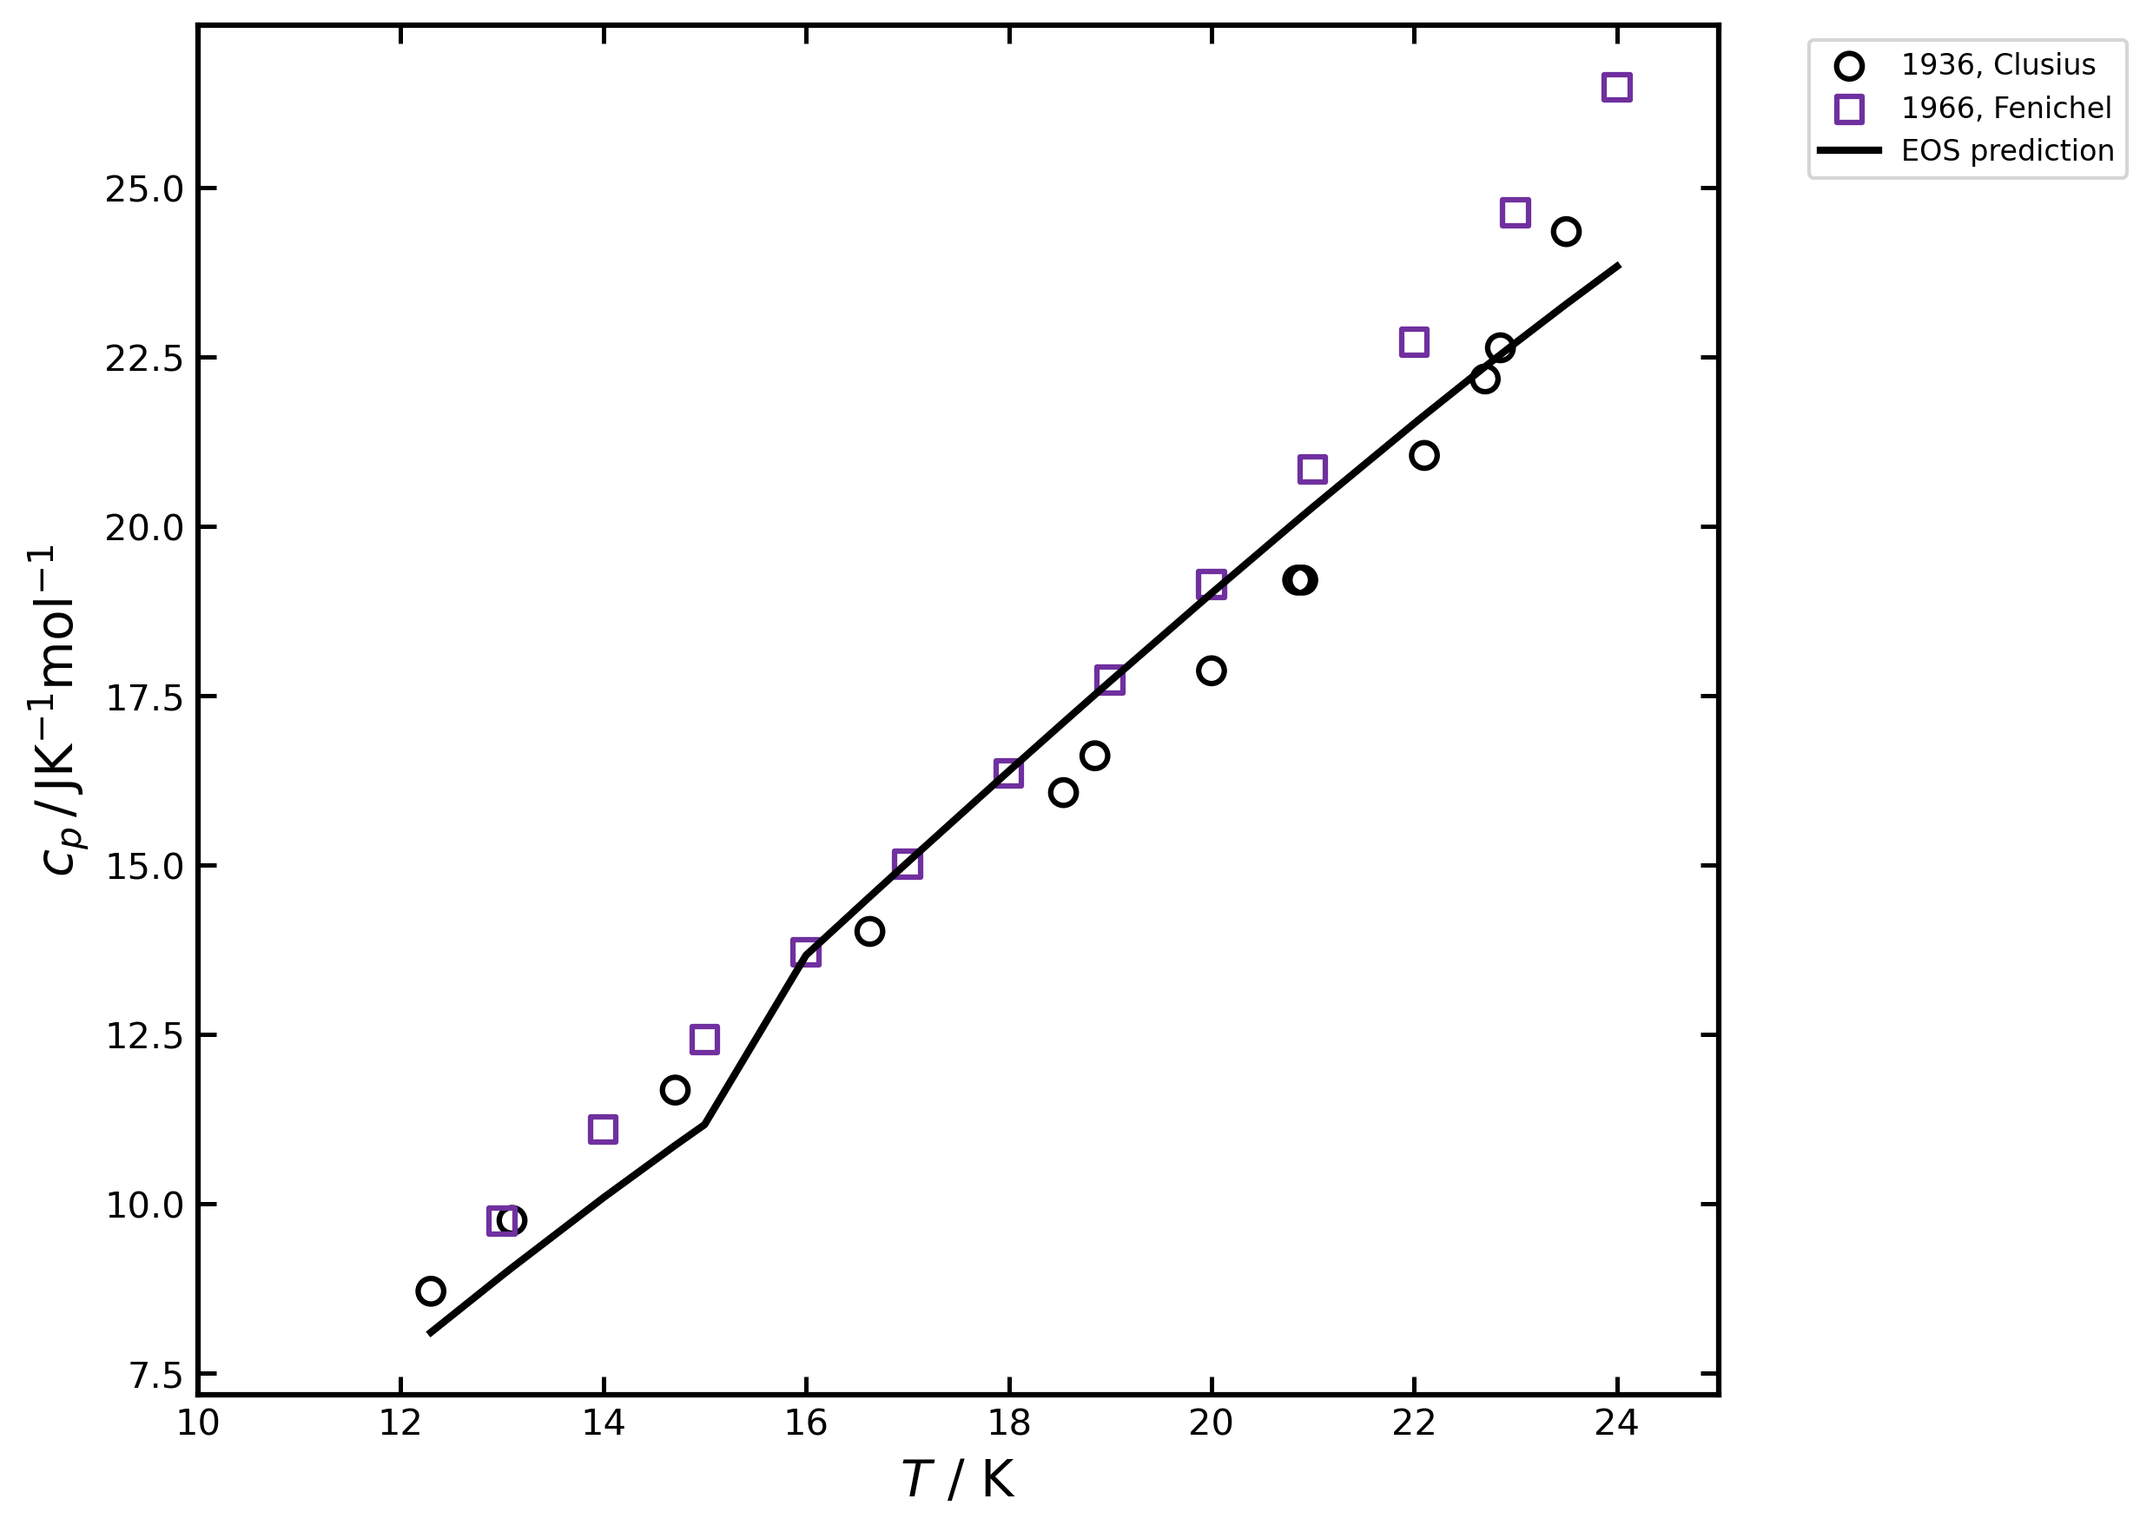
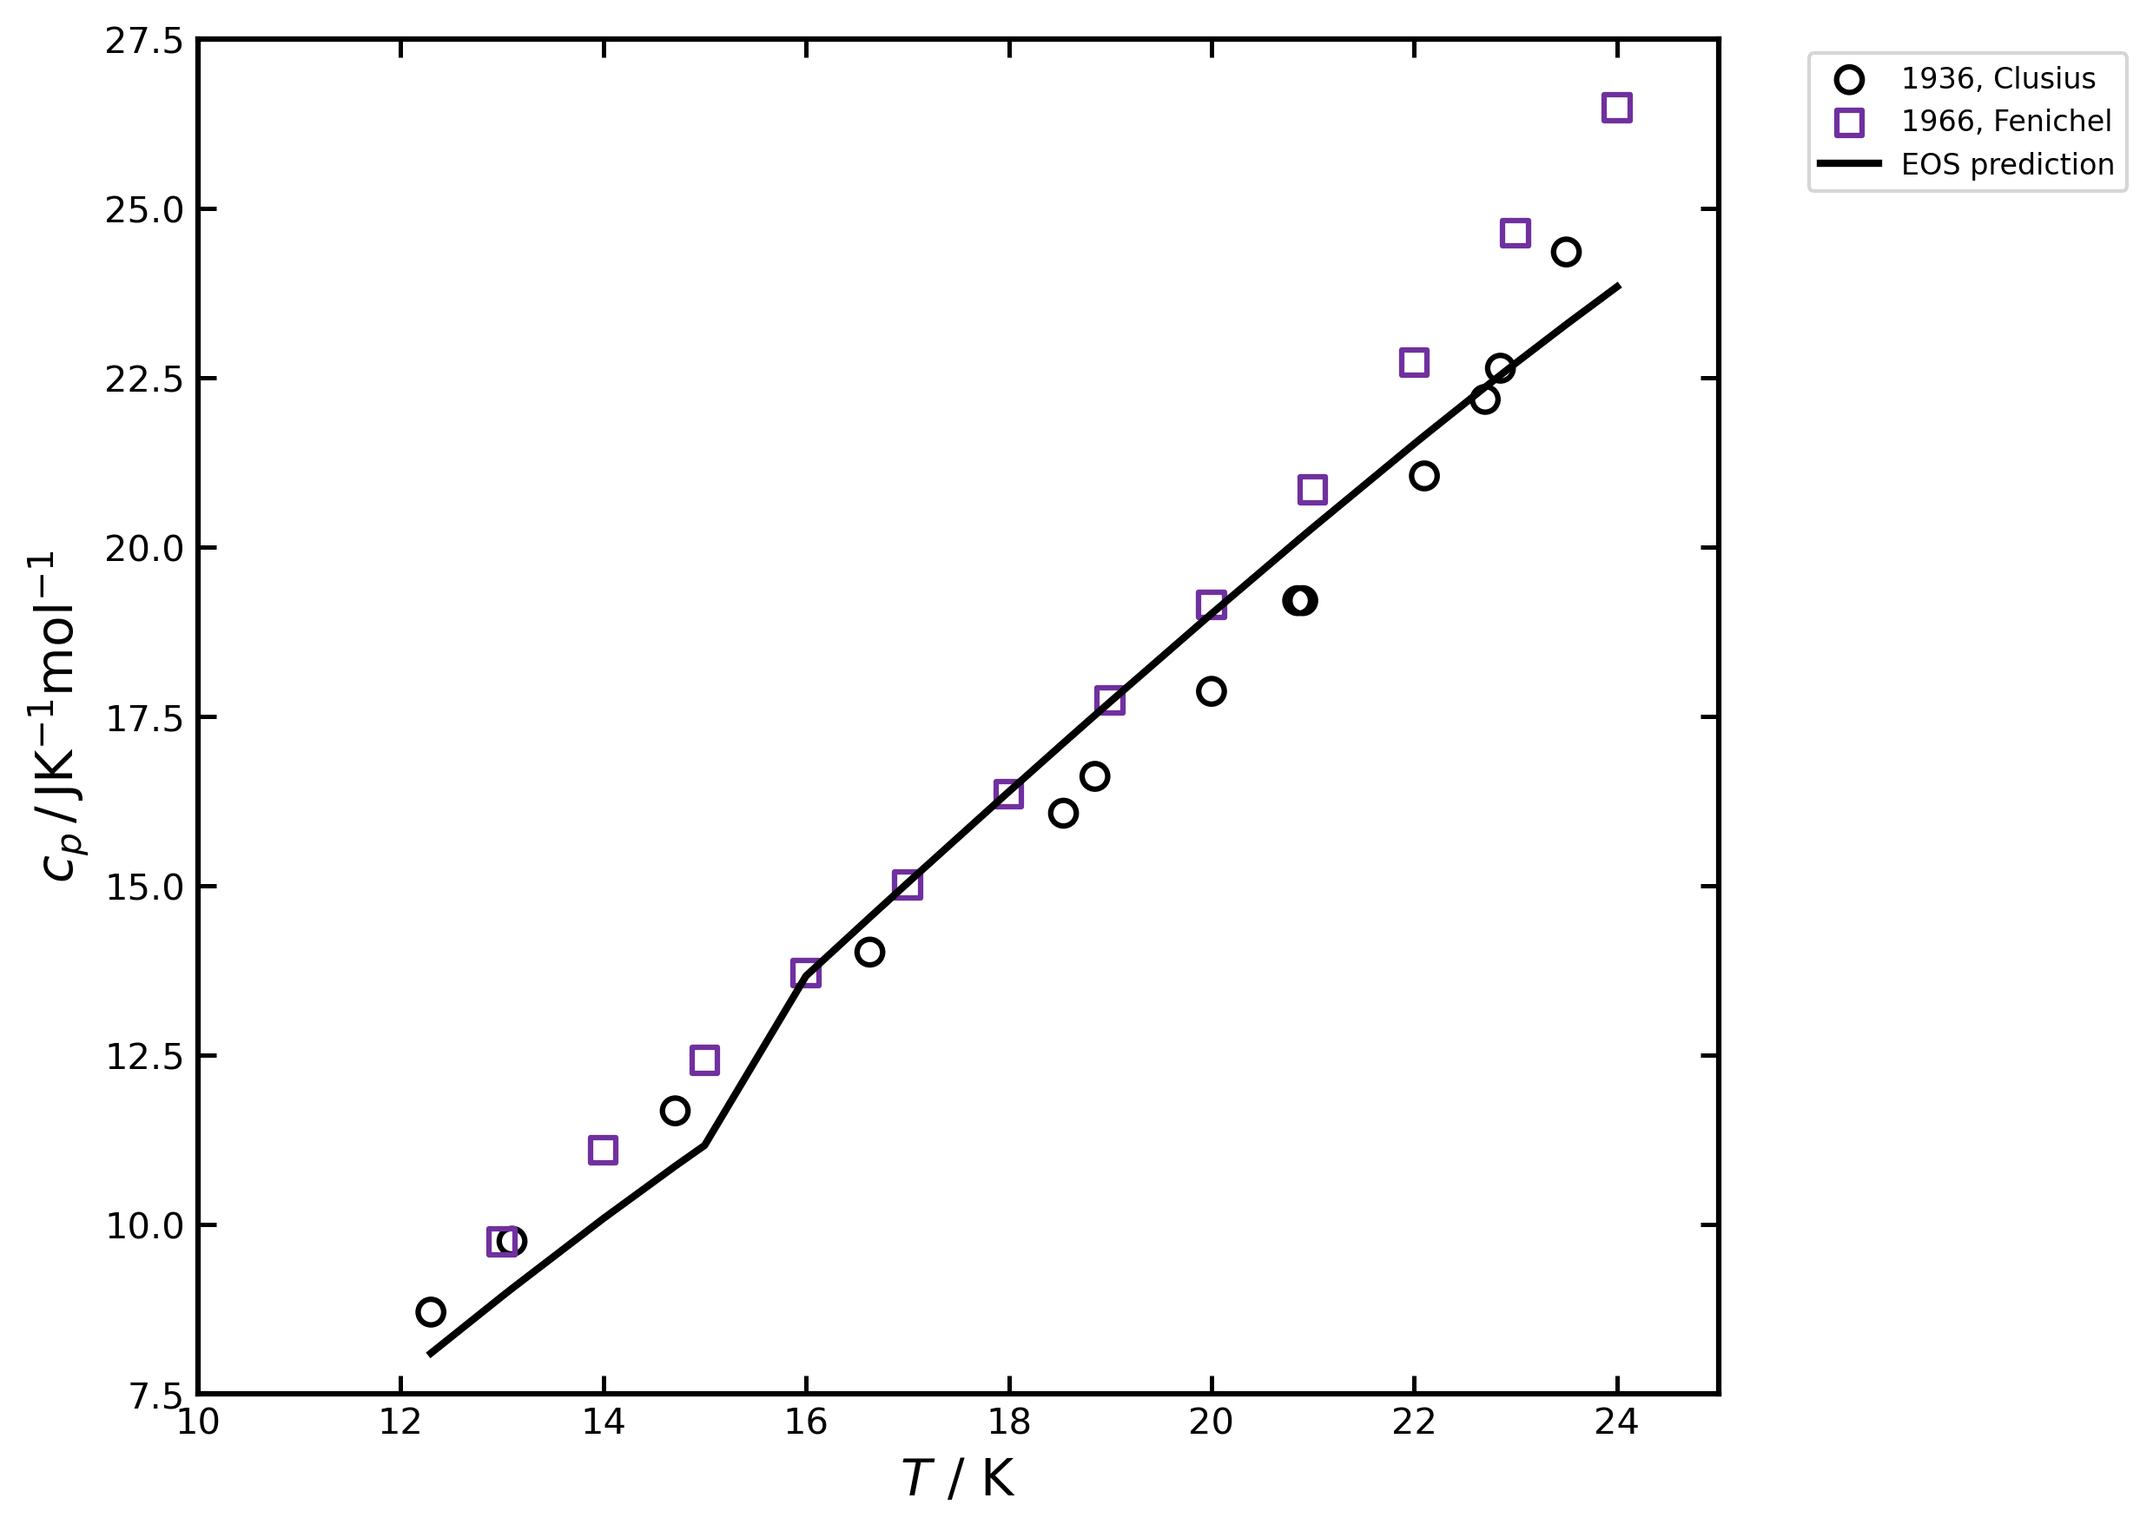
working on krypton high pressure

diff --git a/src/fitting_helper.py b/src/fitting_helper.py
@@ -418,11 +418,9 @@ def extract_datasets(data):
     # High Pressure Cell Volume (safe defaults if missing)
     if 'cell_volume_highp' in data:
         T_Vm_highp = data['cell_volume_highp']['Temperature']
-        p_Vm_highp = data['cell_volume_highp']['Pressure']
         Vm_highp = data['cell_volume_highp']['Cell Volume']
     else:
         T_Vm_highp = np.array([])
-        p_Vm_highp = np.array([])
         Vm_highp = np.array([])
 
     # Heat Capacity Sublimation
@@ -1322,3 +1320,191 @@ def _triple_offsets_plot(params, Tt=Tt, pt=pt, St_REFPROP=St_REFPROP, Ht_REFPROP
         dH = Ht_fitted - float(Ht_REFPROP)  # J/mol
     return dH/1000.0, dS  # kJ/mol, dimensionless
 #
+
+
+def plot_tv_property_panels(
+    params,
+    V_vals,
+    T_list=(0.0001, 50.0, 83.806, 150.0, 300.0),
+    Tt=None,
+    psub_curve=None,   # function T -> MPa
+    pmelt_curve=None,  # function T -> MPa
+    figsize=(10, 8),
+    save_path=None
+):
+    """
+    Plot 4 panels vs Vm using the TV EOS:
+      a) p (MPa)
+      b) K_S (MPa)  [isentropic bulk modulus = 1/KappaS]
+      c) alpha * 1e4 (1/K)
+      d) beta = alpha / KappaT (MPa^-1)
+
+    Overlays:
+      - Isotherms at T in T_list with styles:
+          0 K: black solid
+         50 K: purple dashed
+      83.806 K: dark red dash-dot
+        150 K: green dotted
+        300 K: bold orange solid
+      - Phase curves:
+        Sublimation: bold blue dashed
+        Melting:     bold grey dash-dot
+
+    Notes
+    - V_vals is a 1D array of molar volumes (cm^3/mol) to sweep, e.g., np.arange(18, 25.01, 0.01).
+    - psub_curve and pmelt_curve should return pressures in MPa.
+    """
+    V_vals = np.asarray(V_vals, float)
+
+    # Styling maps
+    styles = {
+        0.0001: dict(color='k',      ls='-',  lw=1.8, label='0 K'),
+        # purple
+        50.0:   dict(color='#8e44ad', ls='--', lw=1.8, label='50 K'),
+        # dark red
+        83.806: dict(color='#8B0000', ls='-.', lw=1.8, label='83.806 K'),
+        # teal/green
+        150.0:  dict(color='#16a085', ls=':',  lw=1.8, label='150 K'),
+        # orange, bold
+        300.0:  dict(color='#e67e22', ls='-',  lw=2.6, label='300 K'),
+    }
+    sub_style = dict(color='#1f77b4', ls='--', lw=2.6,
+                     label='sublimation')   # bold blue dashed
+    melt_style = dict(color='#7f7f7f', ls='-.', lw=2.6,
+                      label='melting')       # bold grey dash-dot
+
+    # Helpers to compute properties at fixed T across V_vals
+    def tv_props_along_V(T):
+        p_list, Ks_list, a_list, beta_list, V_list = [], [], [], [], []
+        for v in V_vals:
+            try:
+                props = compute_thermo_props_TV(float(T), float(v), params)
+                p = float(props[0])                    # MPa
+                kT = float(props[1])                    # MPa^-1
+                kS = float(props[2])                    # MPa^-1
+                alp = float(props[3])                    # 1/K
+                if np.isfinite(p) and np.isfinite(kT) and np.isfinite(kS) and np.isfinite(alp):
+                    V_list.append(v)
+                    p_list.append(p)
+                    # bulk moduli:
+                    Ks_list.append(1.0 / kS if kS !=
+                                   0 else np.nan)           # MPa
+                    beta_list.append(alp / kT if kT !=
+                                     0 else np.nan)         # MPa^-1
+                    # plot α·1e4
+                    a_list.append(alp * 1e4)
+            except Exception:
+                pass
+        return np.asarray(V_list), np.asarray(p_list), np.asarray(Ks_list), np.asarray(a_list), np.asarray(beta_list)
+
+    # Helpers to sample a phase curve parametrically by T, map to V, then compute properties at (T,V)
+    def sample_phase_curve(T_grid, p_of_T):
+        Vc, pc, KSc, ac, bc = [], [], [], [], []
+        for T in T_grid:
+            try:
+                p = float(p_of_T(T))  # MPa
+                # Get V from p-based API at (T,p)
+                props_p = compute_thermo_props(float(T), float(p), params)
+                V = float(props_p[0])  # Vm index=0
+                # Now compute properties from TV API at (T,V)
+                props_tv = compute_thermo_props_TV(float(T), float(V), params)
+                pMPa = float(props_tv[0])
+                kT = float(props_tv[1])
+                kS = float(props_tv[2])
+                alp = float(props_tv[3])
+                if np.all(np.isfinite([V, pMPa, kT, kS, alp])):
+                    Vc.append(V)
+                    pc.append(pMPa)
+                    KSc.append(1.0 / kS if kS != 0 else np.nan)
+                    ac.append(alp * 1e4)
+                    bc.append(alp / kT if kT != 0 else np.nan)
+            except Exception:
+                pass
+        return (np.asarray(Vc), np.asarray(pc), np.asarray(KSc),
+                np.asarray(ac), np.asarray(bc))
+
+    fig, axs = plt.subplots(2, 2, figsize=figsize)
+    ax_p, ax_Ks = axs[0]
+    ax_alpha, ax_beta = axs[1]
+
+    # Plot isotherms
+    for T in T_list:
+        Vc, pc, KSc, ac, bc = tv_props_along_V(T)
+        if Vc.size == 0:
+            continue
+        st = styles.get(round(T, 3), dict(
+            color='k', ls='-', lw=1.5, label=f'{T:g} K'))
+        # sort by V for clean lines
+        order = np.argsort(Vc)
+        Vc, pc, KSc, ac, bc = Vc[order], pc[order], KSc[order], ac[order], bc[order]
+        ax_p.plot(Vc, pc, **st)
+        ax_Ks.plot(Vc, KSc, **st)
+        ax_alpha.plot(Vc, ac, **st)
+        ax_beta.plot(Vc, bc, **st)
+
+    # Plot phase curves (if provided)
+    if (psub_curve is not None) and (Tt is not None):
+        # Sample safely below Tt
+        T_sub = np.linspace(max(1e-3, 0.1), float(Tt), 400)
+        Vc, pc, KSc, ac, bc = sample_phase_curve(T_sub, psub_curve)
+        if Vc.size:
+            o = np.argsort(Vc)
+            ax_p.plot(Vc[o], pc[o], **sub_style)
+            ax_Ks.plot(Vc[o], KSc[o], **sub_style)
+            ax_alpha.plot(Vc[o], ac[o], **sub_style)
+            ax_beta.plot(Vc[o], bc[o], **sub_style)
+
+    if pmelt_curve is not None and (Tt is not None):
+        # Sample above Tt (limit to a reasonable max T, e.g., last isotherm or 300 K)
+        Tmax = max([t for t in T_list if np.isfinite(t)]
+                   ) if T_list else (float(Tt) + 100.0)
+        Tmax = max(Tmax, float(Tt) + 1.0)
+        T_melt = np.linspace(float(Tt), float(Tmax), 400)
+        Vc, pc, KSc, ac, bc = sample_phase_curve(T_melt, pmelt_curve)
+        if Vc.size:
+            o = np.argsort(Vc)
+            ax_p.plot(Vc[o], pc[o], **melt_style)
+            ax_Ks.plot(Vc[o], KSc[o], **melt_style)
+            ax_alpha.plot(Vc[o], ac[o], **melt_style)
+            ax_beta.plot(Vc[o], bc[o], **melt_style)
+
+    # Labels, limits, legends
+    ax_p.set_xlabel(r"$V_m$ / (cm$^3$ mol$^{-1}$)")
+    ax_p.set_ylabel(r"$p$ / MPa")
+
+    ax_Ks.set_xlabel(r"$V_m$ / (cm$^3$ mol$^{-1}$)")
+    ax_Ks.set_ylabel(r"$K_S$ / MPa")
+
+    ax_alpha.set_xlabel(r"$V_m$ / (cm$^3$ mol$^{-1}$)")
+    ax_alpha.set_ylabel(r"$\alpha \cdot 10^{4}$ / K$^{-1}$")
+
+    ax_beta.set_xlabel(r"$V_m$ / (cm$^3$ mol$^{-1}$)")
+    ax_beta.set_ylabel(r"$\beta$ / MPa$^{-1}$")
+
+    # Aesthetic tweaks
+    for ax in (ax_p, ax_Ks, ax_alpha, ax_beta):
+        ax.tick_params(direction='in', top=True, right=True)
+        for spine in ax.spines.values():
+            spine.set_linewidth(1.2)
+            spine.set_color('black')
+
+    # One shared legend using handles from the first axis
+    # Collect unique labels in order
+    handles, labels = [], []
+    for ax in (ax_p,):
+        h, l = ax.get_legend_handles_labels()
+        for hi, li in zip(h, l):
+            if li not in labels:
+                handles.append(hi)
+                labels.append(li)
+    fig.legend(handles, labels, loc='upper center',
+               ncol=4, frameon=False, fontsize=9)
+
+    fig.tight_layout(rect=[0, 0, 1, 0.94])
+
+    if save_path:
+        os.makedirs(os.path.dirname(save_path), exist_ok=True)
+        fig.savefig(save_path, dpi=300, bbox_inches='tight')
+
+    plt.show()
+    return fig, axs

diff --git a/src/fitting_helper_neon.py b/src/fitting_helper_neon.py
@@ -942,7 +942,7 @@ def plot_deviation(variable='Vm_melt'):
             y_label=r'$c_p\,/\,\mathrm{JK^{-1}mol^{-1}}$',
             title=None,
             xlim=(10, 25),
-            # ylim=(0, 40),
+            ylim=(7.5, 27.5),
             model_x=df_cp_sub['T'],
             model_y=df_cp_sub['y_model'],
             logy=False,
@@ -961,7 +961,7 @@ def plot_deviation(variable='Vm_melt'):
             title=None,
             filename='neon_sub_heatcapacity_deviation',
             xlim=(10, 25),
-            # ylim=(-10, 20),
+            ylim=(-7.5, 12.5),
             output_folder=IMG_OUTPUT_FOLDER,
             custom_colors=CUSTOMCOLORS,
             custom_markers=CUSTOMMARKERS
@@ -995,7 +995,7 @@ def plot_deviation(variable='Vm_melt'):
             title=None,
             filename='neon_sub_thermal_expansion_deviation',
             xlim=(0, 25),
-            ylim=(-80, 10),
+            ylim=(-10, 10),
             output_folder=IMG_OUTPUT_FOLDER,
             custom_colors=CUSTOMCOLORS,
             custom_markers=CUSTOMMARKERS
@@ -1009,8 +1009,8 @@ def plot_deviation(variable='Vm_melt'):
             y_col='y_exp',
             y_label=r'$K_T\,/\,\mathrm{MPa}$',
             title=None,
-            # xlim=(0, 170),
-            # ylim=(1250, 3750),
+            xlim=(0, 25),
+            ylim=(500, 1200),
             model_x=df_BETA_T_sub['T'],
             model_y=df_BETA_T_sub['y_model'],  # convert to KappaT in MPa
             logy=False,
@@ -1028,8 +1028,8 @@ def plot_deviation(variable='Vm_melt'):
             y_label=r'$100 \cdot (K_{T,\mathrm{exp}} - K_{T,\mathrm{calc}}) / K_{T,\mathrm{exp}}$',
             title=None,
             filename='neon_sub_isothermal_compressibility_deviation',
-            # xlim=(0, 170),
-            # ylim=(-15, 15),
+            xlim=(0, 25),
+            ylim=(-10, 15),
             output_folder=IMG_OUTPUT_FOLDER,
             custom_colors=CUSTOMCOLORS,
             custom_markers=CUSTOMMARKERS
@@ -1043,8 +1043,8 @@ def plot_deviation(variable='Vm_melt'):
             y_col='y_exp',
             y_label=r'$K_S\,/\,\mathrm{MPa}$',
             title=None,
-            # xlim=(0, 170),
-            # ylim=(1500, 4000),
+            xlim=(0, 25),
+            ylim=(600, 1200),
             model_x=df_BETA_S_sub['T'],
             model_y=df_BETA_S_sub['y_model'],  # convert to KappaS in MPa
             logy=False,
@@ -1062,8 +1062,8 @@ def plot_deviation(variable='Vm_melt'):
             y_label=r'$100 \cdot (K_{S,\mathrm{exp}} - K_{S,\mathrm{calc}}) / K_{S,\mathrm{exp}}$',
             title=None,
             filename='neon_sub_isentropic_compressibility_deviation',
-            # xlim=(0, 170),
-            # ylim=(-40, 10),
+            xlim=(0, 25),
+            ylim=(-6, 12),
             output_folder=IMG_OUTPUT_FOLDER,
             custom_colors=CUSTOMCOLORS,
             custom_markers=CUSTOMMARKERS
@@ -1090,7 +1090,7 @@ def plot_deviation(variable='Vm_melt'):
             model_x=dfH['T'],
             model_y=dfH['y_model'],
             # xlim=(50, 170),
-            # ylim=(-6, -2.5),
+            ylim=(-0.525, -0.510),
             logy=False,
             filename='neon_sub_enthalpy.png',
             output_folder=IMG_OUTPUT_FOLDER,
@@ -1105,7 +1105,7 @@ def plot_deviation(variable='Vm_melt'):
             y_exp_col='y_exp',
             y_model_col='y_model',
             # xlim=(50, 170),
-            # ylim=(-8, 1),
+            ylim=(-0.1, 0.8),
             y_label=r'$100\cdot(\Delta H_{\mathrm{exp}}-\Delta H_{\mathrm{calc}})/\Delta H_{\mathrm{exp}}$',
             title=None,
             filename='neon_sub_enthalpy_deviation',
@@ -1216,7 +1216,7 @@ def plot_deviation(variable='Vm_melt'):
             y_exp_col='y_exp',
             y_model_col='y_model',
             # xlim=(60, 120),
-            ylim=(-15, 25),
+            ylim=(-15, 5),
             y_label=r'$100\cdot(p_{\mathrm{exp}}-p_{\mathrm{calc}})/p_{\mathrm{exp}}$',
             title=None,
             filename='neon_melt_pressure_deviation',

diff --git a/src/fitting_krypton.py b/src/fitting_krypton.py
@@ -169,27 +169,6 @@ def combined_cost_function(params, *datasets):
             T_BetaS_sub[m], p_BetaS_sub[m], params, idx=2)
         BetaS_sub_dev = rms_percent(BetaS_sub[m], model)
 
-
-    # # Enthalpy of sublimation: kJ/mol (no unit juggling)
-    # m = (np.isfinite(T_H_sub) & np.isfinite(p_H_sub) &
-    #      np.isfinite(delta_H_sub) & np.isfinite(H_fluid_sub) & (T_H_sub <= Tt))
-
-    # if np.any(m):
-    #     H_solid_sub = H_fluid_sub[m] - delta_H_sub[m] * 1.0  # both kJ/mol
-    #     modelH = _safe_props_vector(
-    #         T_H_sub[m], p_H_sub[m], params, idx=10) / 1000 - deltaH_triple_kJ
-    #     H_solid_sub_dev = rms_percent(H_solid_sub, modelH)
-    # # Enthalpy of melting: kJ/mol
-    # m = (np.isfinite(T_H_melt) & np.isfinite(p_H_melt) &
-    #      np.isfinite(delta_H_melt) & np.isfinite(H_fluid_melt) & (T_H_melt >= Tt))
-
-    # if np.any(m):
-    #     H_solid_melt = H_fluid_melt[m] - delta_H_melt[m] * 1.0
-    #     modelH = _safe_props_vector(
-    #         T_H_melt[m], p_H_melt[m], params, idx=10)/1000 - deltaH_triple_kJ
-    #     H_solid_melt_dev = rms_percent(H_solid_melt, modelH)
-    # Gamma-T smoothness penalty along a subl. grid (T<=Tt)
-        # Enthalpy of sublimation: compare H_solid,exp vs (H_model - dHtr)
     m = (np.isfinite(T_H_sub) & np.isfinite(p_H_sub) &
          np.isfinite(delta_H_sub) & np.isfinite(H_fluid_sub) & (T_H_sub <= Tt))
     if np.any(m):

diff --git a/src/fitting_neon.py b/src/fitting_neon.py
@@ -291,11 +291,11 @@ def plotTV(min_Vom=0, max_Vom=40, inc_Vol=0.01):
         psub_curve=psub_curve,
         pmelt_curve=pmelt_curve,
         figsize=(9, 7),
-        save_path=os.path.join(EOS_FILEPATH, "tv_property_panels.png")
+        save_path=os.path.join(EOS_FILEPATH, "tv_property_panels_neon.png")
     )
 if __name__ == "__main__":
-    # plot_deviation("pmelt")
+    plot_deviation("H_solid_sub")
     # main()
     # plot_init()
-    plotTV(min_Vom=4, max_Vom=10, inc_Vol=0.01)
+    # plotTV(min_Vom=4, max_Vom=10, inc_Vol=0.01)
 

diff --git a/src/read.py b/src/read.py
@@ -63,4 +63,6 @@ def load_all_gas_data(gas_name, read_from_excel=True):
             txt(gas_name, 'cell_volume_sub'), sep='\t')
         data['cell_volume_melt'] = pd.read_csv(
             txt(gas_name, 'cell_volume_melt'), sep='\t')
+        data['cell_volume_highp'] = pd.read_csv(
+            txt(gas_name, 'cell_volume_highpressure'), sep='\t')
     return data
